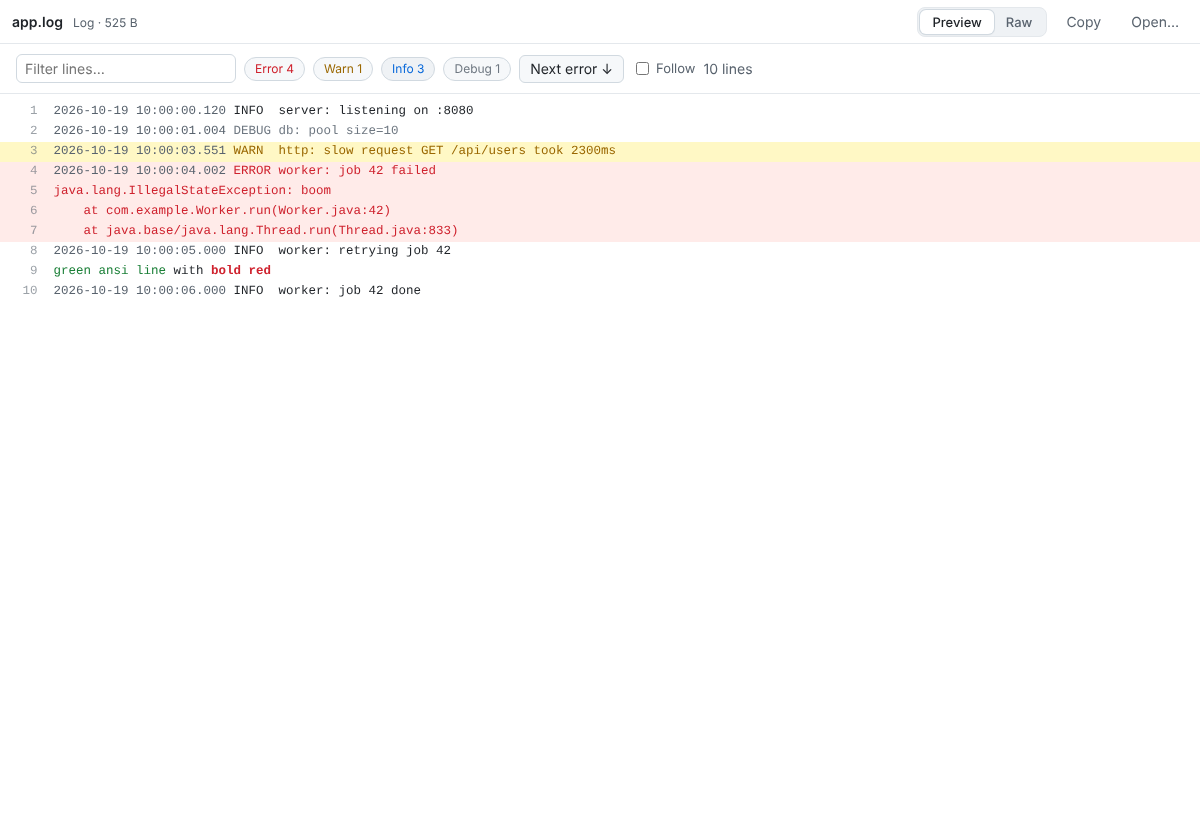
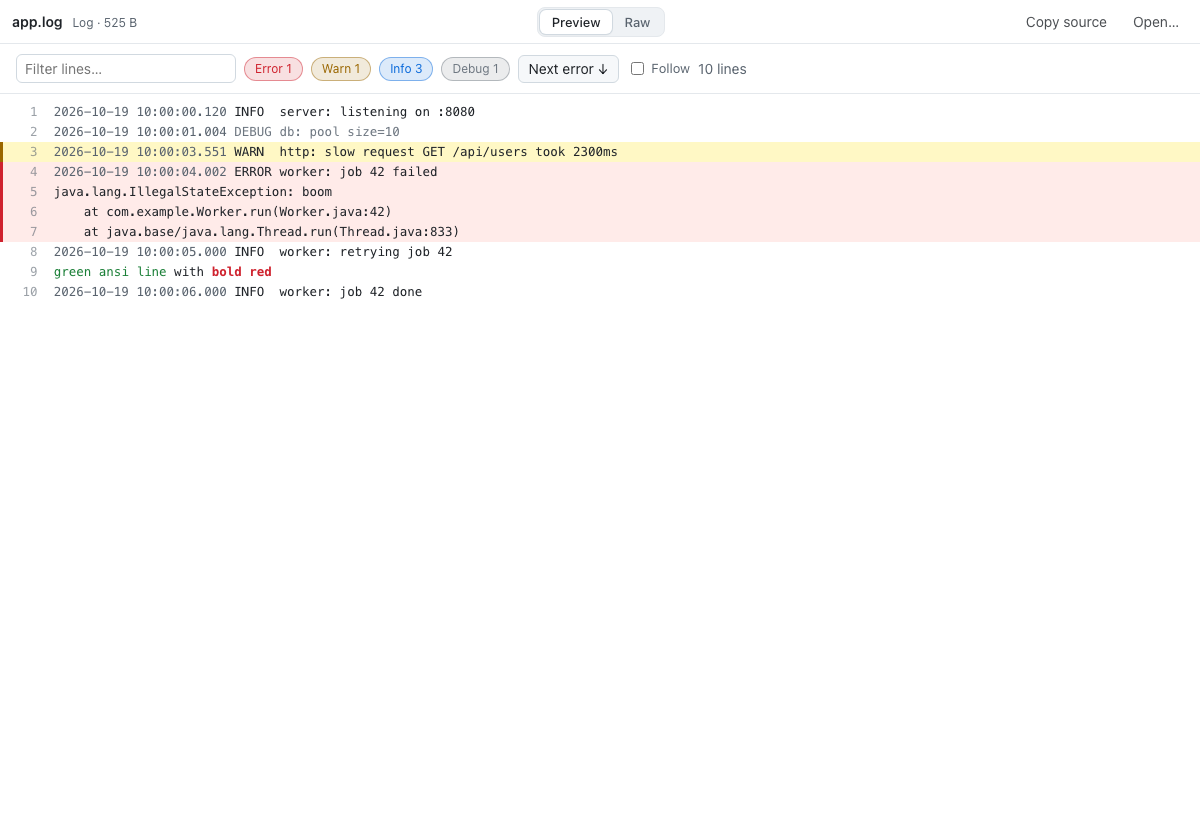
README for a public repo: install from releases, current screenshots, support
- Install: which file to download, and how to open an unsigned app on current
  macOS (Privacy & Security → Open Anyway; System Settings replaced the
  right-click → Open bypass).
- Screenshots retaken from the current UI; unused ones removed; a file-list one
  added.
- Mentions Recent Changes and links, notes Open Folder is macOS-only.
- How this was built, and what support to expect.
- Repository links in package.json and Cargo.toml; release steps include the
  changelog.

Changed region(s): [[0.0, 0.0, 0.6167, 0.3659], [0.7708, 0.0, 0.925, 0.061], [0.0308, 0.061, 0.0925, 0.0915]]

diff --git a/README.md b/README.md
@@ -1,24 +1,38 @@
-# Plica
+<p align="center">
+  <img src="src-tauri/icons/128x128@2x.png" width="96" alt="">
+</p>
+
+<h1 align="center">Plica</h1>
+
+<p align="center">
+  <a href="https://github.com/ryangswe/plica/releases/latest"><img alt="Latest release" src="https://img.shields.io/github/v/release/ryangswe/plica?label=release"></a>
+  <a href="https://github.com/ryangswe/plica/actions/workflows/ci.yml"><img alt="CI" src="https://img.shields.io/github/actions/workflow/status/ryangswe/plica/ci.yml?branch=main&label=CI"></a>
+  <a href="LICENSE"><img alt="License: MIT" src="https://img.shields.io/badge/license-MIT-blue"></a>
+  <img alt="macOS, Windows, Linux" src="https://img.shields.io/badge/platforms-macOS%20%7C%20Windows%20%7C%20Linux-lightgrey">
+</p>
 
 **Double-click a Markdown file and actually read it.**
 
-Plica is a tiny, free, open-source viewer for the text files developers deal with every day. It opens
-Markdown, JSON, CSV, Jupyter notebooks, logs, diffs and more **rendered**, instantly, without an IDE. Press
-<kbd>Cmd</kbd>/<kbd>Ctrl</kbd> + <kbd>/</kbd> to flip to the raw source and back, like GitHub's Preview / Code tabs.
+Plica is a small, free viewer for the text files developers read every day. It opens Markdown, JSON, CSV,
+Jupyter notebooks, logs, diffs and more **rendered**, instantly, without an IDE. Press
+<kbd>Cmd</kbd>/<kbd>Ctrl</kbd> + <kbd>/</kbd> to flip to the raw source and back, like GitHub's Preview and Code
+tabs.
 
 <p align="center">
-  <img src="docs/screenshots/01-markdown.png" width="49%" alt="Markdown preview">
-  <img src="docs/screenshots/02-markdown-raw.png" width="49%" alt="Same file, raw">
+  <img src="docs/screenshots/01-markdown.png" width="49%" alt="A Markdown file rendered, with its table of contents">
+  <img src="docs/screenshots/02-markdown-raw.png" width="49%" alt="The same file as raw source with line numbers">
 </p>
 
-- **Fast and small.** Built with [Tauri](https://tauri.app): it uses the web engine your OS already has, so
-  the app is a few MB instead of a 150 MB Electron bundle.
-- **Opens like any other file.** Set it as the default app for `.md` (and friends) and double-click.
-- **Read-only and safe.** Files are untrusted: scripts never run, HTML is sanitized, HTML pages preview in a sandbox.
-- **Private.** No telemetry, no accounts. Remote images in a file (badges, tracking pixels) load only when you
-  say so: **Load once**, or **Always load** (macOS: View → Load Remote Images).
-- **Live reload.** Edit the file in your editor; the view updates on save (great for logs with *Follow* on).
-- **Works on macOS, Windows and Linux.**
+- **Small and fast.** Built with [Tauri](https://tauri.app), it uses the web engine your OS already has: the
+  macOS app is about 5 MB, not a 150 MB Electron bundle.
+- **Opens like any other file.** Make it the default app for `.md` (and friends) and double-click.
+- **Read-only and careful.** File content is treated as untrusted: scripts never run, HTML is sanitized, and HTML
+  pages preview in a sandbox.
+- **Private.** No telemetry, no accounts, no update checks. Remote images in a file (badges, tracking pixels)
+  load only when you say so.
+- **Live reload.** Edit the file in your editor and the view updates when you save.
+- **Finds what your coding agent just wrote.** File → Recent Changes lists the Markdown and text files changed
+  this week, newest first, including plans in `~/.claude/plans` and notes in git worktrees.
 
 ## What it renders
 
@@ -34,57 +48,34 @@ Markdown, JSON, CSV, Jupyter notebooks, logs, diffs and more **rendered**, insta
 | SVG, HTML | Image / sandboxed page preview |
 | Anything else that's text | Syntax-highlighted source with line numbers |
 
+Text in UTF-16, Windows-1252, Shift_JIS and other legacy encodings is detected; click the encoding in the top bar
+to pick another one if the characters look wrong.
+
 <p align="center">
-  <img src="docs/screenshots/07-log.png" width="49%" alt="Log view">
-  <img src="docs/screenshots/05-notebook.png" width="49%" alt="Notebook view">
+  <img src="docs/screenshots/07-log.png" width="49%" alt="A log file colored by level, with filters">
+  <img src="docs/screenshots/05-notebook.png" width="49%" alt="A Jupyter notebook with outputs">
 </p>
-
-## Keyboard
-
-| Keys | Action |
-|---|---|
-| <kbd>Cmd/Ctrl</kbd> <kbd>/</kbd> | Toggle Preview ↔ Raw |
-| <kbd>Cmd/Ctrl</kbd> <kbd>F</kbd>, <kbd>G</kbd>, <kbd>Shift</kbd> <kbd>G</kbd> | Find in file, next match, previous match |
-| <kbd>Cmd/Ctrl</kbd> <kbd>O</kbd> | Open a file |
-| <kbd>Cmd/Ctrl</kbd> <kbd>R</kbd> | Reload |
-| <kbd>Shift</kbd> <kbd>Cmd/Ctrl</kbd> <kbd>R</kbd> | Recent changes: Markdown and text files changed this week |
-| <kbd>Cmd/Ctrl</kbd> <kbd>+</kbd> / <kbd>-</kbd> / <kbd>0</kbd> | Zoom |
-| <kbd>Alt</kbd> <kbd>←</kbd> or <kbd>Cmd/Ctrl</kbd> <kbd>[</kbd> | Back (after following a link to another file) |
-| <kbd>Ctrl</kbd> <kbd>Cmd</kbd> <kbd>S</kbd> (macOS), <kbd>Ctrl</kbd> <kbd>B</kbd> | Show or hide the file list |
-
-On macOS everything is also in the menu bar, plus:
-
-| Keys | Action |
-|---|---|
-| <kbd>Cmd</kbd> <kbd>E</kbd> | Open in your editor (VS Code, Cursor, Zed…; pick one under File → Open in Other Editor) |
-| <kbd>Shift</kbd> <kbd>Cmd</kbd> <kbd>C</kbd> / <kbd>Option</kbd> <kbd>Cmd</kbd> <kbd>C</kbd> | Copy the file's source / its path |
-| <kbd>Cmd</kbd> <kbd>1</kbd>…<kbd>9</kbd>, <kbd>Ctrl</kbd> <kbd>Tab</kbd> | Switch tabs (Window → Merge All Windows to put windows in tabs) |
-| <kbd>Shift</kbd> <kbd>Cmd</kbd> <kbd>M</kbd> | Merge All Windows |
-
-**Several files or a folder:** select files in Finder and open them, drop them on Plica, or use **File → Open
-Folder…** (Shift+Cmd+O, or drop a folder). You get one window with the files listed on the left in Finder's name
-order; click one (or use the arrow keys) to show it. To give a file a window of its own, Cmd-click it, drag it
-out of the window, or right-click it → Open in New Window. Only the folder's own text files are listed:
-subfolders, hidden files and files that aren't text are left out. Prefer tabs? On macOS, Window → **Open Groups
-of Files as Tabs** opens one tab per file instead.
-
-**Recent changes:** **File → Recent Changes** (Shift+Cmd+R, or Ctrl+Shift+R; also on the start screen) lists the
-Markdown and text files changed in the last 7 days, newest first, with their folder and when they changed. Handy
-for finding what a coding agent just wrote: a plan in `~/.claude/plans`, notes in a worktree. It looks in
-`~/.claude/plans` and the usual code folders (`~/Workspace`, `~/Projects`, `~/Developer`, `~/code`…), skipping
-dependencies and build output. Files written all at once (a checkout or a copy) are left out. To pick the folders,
-add `"recentFolders": ["~/work", "~/notes"]` to Plica's `settings.json`. Run it again to refresh the list.
-
-If a file's characters look wrong, click its encoding in the top bar (or File → Reopen with Encoding) to pick another.
 
 ## Install
 
-Download the installer for your OS from the [Releases](../../releases) page.
+Download the file for your system from the [latest release](https://github.com/ryangswe/plica/releases/latest):
 
-> **The app isn't code-signed yet**, so the first launch shows a warning:
-> - **macOS:** right-click Plica.app → **Open** → **Open**. If macOS says the app is "damaged", run
->   `xattr -cr /Applications/Plica.app` once.
-> - **Windows:** SmartScreen → **More info** → **Run anyway**.
+| System | File |
+|---|---|
+| macOS, Apple Silicon | `Plica_<version>_aarch64.dmg` |
+| macOS, Intel | `Plica_<version>_x64.dmg` |
+| Windows | `Plica_<version>_x64-setup.exe` (or the `.msi`) |
+| Linux | `.AppImage`, `.deb` or `.rpm` |
+
+The app isn't code-signed (signing costs a yearly fee, and Plica is a free side project), so your system warns
+you the first time you open it:
+
+- **macOS:** open Plica once and close the warning. Then go to **System Settings → Privacy & Security**, scroll
+  down to the message about Plica and click **Open Anyway**. If macOS instead says the app is "damaged", run
+  `xattr -dr com.apple.quarantine /Applications/Plica.app` once in Terminal.
+- **Windows:** in the SmartScreen dialog, click **More info → Run anyway**.
+
+Or build it yourself: see [Development](#development).
 
 ### Make it the default for Markdown
 
@@ -93,26 +84,93 @@ Download the installer for your OS from the [Releases](../../releases) page.
 - **Windows:** right-click a `.md` file → **Open with** → **Choose another app** → Plica → tick **Always**.
 - **Linux:** `xdg-mime default Plica.desktop text/markdown` (or use your file manager's "Open With").
 
-Plica registers itself for Markdown, JSON, CSV/TSV, notebooks, logs, diffs and Mermaid files, so it shows
-up in "Open With" for all of them.
+Plica registers itself for Markdown, JSON, CSV/TSV, notebooks, logs, diffs and Mermaid files, so it shows up in
+"Open With" for all of them.
+
+## Using it
+
+**Several files or a folder.** Select files in Finder or Explorer and open them, or drop files or a folder on
+Plica (on macOS also **File → Open Folder…**). You get one window with the files listed on the left in Finder's
+name order; click one, or use the arrow keys, to show it. To give a file a window of its own, Cmd/Ctrl-click
+it, drag it out of the window, or right-click it → Open in New Window. Only the folder's own text files are
+listed: subfolders, hidden files and files that aren't text are left out. Prefer tabs? On macOS,
+Window → **Open Groups of Files as Tabs** opens one tab per file instead.
+
+<p align="center">
+  <img src="docs/screenshots/08-file-list.png" width="70%" alt="Three files opened together, listed on the left">
+</p>
+
+**Recent changes.** **File → Recent Changes** (<kbd>Shift</kbd> <kbd>Cmd/Ctrl</kbd> <kbd>R</kbd>, or the
+button on the start screen) lists the Markdown and text files
+changed in the last 7 days, newest first, with their folder and when they changed. It looks in
+`~/.claude/plans` and the usual code folders (`~/Workspace`, `~/Projects`, `~/Developer`, `~/code`…), skipping
+dependencies and build output. Files written dozens at a time (a git checkout or a copy) are left out. To choose
+the folders, add `"recentFolders": ["~/work", "~/notes"]` to Plica's `settings.json`. Run it again to refresh
+the list.
+
+**Links.** Web links open in your browser. Links to other files open them in Plica, including the
+`src/main.ts:42` form that coding agents write (the line number is ignored for now).
+
+**Remote images** stay blocked until you click **Load once** or **Always load** (macOS: View → Load Remote
+Images).
+
+### Keyboard
+
+| Keys | Action |
+|---|---|
+| <kbd>Cmd/Ctrl</kbd> <kbd>/</kbd> | Toggle Preview ↔ Raw |
+| <kbd>Cmd/Ctrl</kbd> <kbd>F</kbd>, <kbd>G</kbd>, <kbd>Shift</kbd> <kbd>G</kbd> | Find in file, next match, previous match |
+| <kbd>Cmd/Ctrl</kbd> <kbd>O</kbd> | Open a file |
+| <kbd>Cmd/Ctrl</kbd> <kbd>R</kbd> | Reload |
+| <kbd>Shift</kbd> <kbd>Cmd/Ctrl</kbd> <kbd>R</kbd> | Recent changes |
+| <kbd>Cmd/Ctrl</kbd> <kbd>+</kbd> / <kbd>-</kbd> / <kbd>0</kbd> | Zoom |
+| <kbd>Alt</kbd> <kbd>←</kbd> or <kbd>Cmd/Ctrl</kbd> <kbd>[</kbd> | Back (after following a link to another file) |
+| <kbd>Ctrl</kbd> <kbd>Cmd</kbd> <kbd>S</kbd> (macOS), <kbd>Ctrl</kbd> <kbd>B</kbd> | Show or hide the file list |
+
+On macOS everything is also in the menu bar, plus:
+
+| Keys | Action |
+|---|---|
+| <kbd>Shift</kbd> <kbd>Cmd</kbd> <kbd>O</kbd> | Open a folder |
+| <kbd>Cmd</kbd> <kbd>E</kbd> | Open in your editor (VS Code, Cursor, Zed…; pick one under File → Open in Other Editor) |
+| <kbd>Shift</kbd> <kbd>Cmd</kbd> <kbd>C</kbd> / <kbd>Option</kbd> <kbd>Cmd</kbd> <kbd>C</kbd> | Copy the file's source / its path |
+| <kbd>Cmd</kbd> <kbd>1</kbd>…<kbd>9</kbd>, <kbd>Ctrl</kbd> <kbd>Tab</kbd> | Switch tabs (Window → Merge All Windows puts windows in tabs) |
+| <kbd>Shift</kbd> <kbd>Cmd</kbd> <kbd>M</kbd> | Merge All Windows |
 
 ## Development
 
-Requirements: Node 20+, Rust (stable), and on Linux the WebKitGTK libraries
-(`sudo apt install libwebkit2gtk-4.1-dev libappindicator3-dev librsvg2-dev patchelf`).
+You need Node 20 or later and Rust (stable). On Linux, also the WebKitGTK libraries:
+`sudo apt install libwebkit2gtk-4.1-dev libappindicator3-dev librsvg2-dev patchelf`.
 
 ```bash
+git clone https://github.com/ryangswe/plica.git
+cd plica
 npm install
 npm run tauri dev          # run the desktop app with hot reload
 npm run dev                # or just the UI in a browser (drag files onto the page)
-npm test                   # unit tests (vitest)
-npm run test:e2e           # browser tests (playwright) – also writes screenshots to test-results/screens
 npm run tauri build        # build installers for your OS into src-tauri/target/release/bundle
 ```
 
-Adding a file type is one file in `src/renderers/` plus a line in `src/renderers/index.ts`. See
-[ARCHITECTURE.md](ARCHITECTURE.md) for how it's built.
+Tests: `npm test` (unit), `npm run test:e2e` (Playwright, Chromium and WebKit), and `cargo test --manifest-path
+src-tauri/Cargo.toml`. [ARCHITECTURE.md](ARCHITECTURE.md) explains how the code is laid out, and adding a file
+type is one file in `src/renderers/` plus a line in `src/renderers/index.ts`.
+
+## How this was built
+
+I built Plica for myself, with heavy use of AI coding tools (Claude Code). It is checked by unit tests, browser
+tests in Chromium and WebKit (which also enforce the app's Content Security Policy), Rust tests, a lint for bug
+patterns, a macOS smoke test of the installed app, and two outside reviews by AI models, not by people. I use it
+every day on macOS. The Windows and Linux builds are built and tested in CI but get little use by hand, so
+reports from those systems are especially welcome.
+
+## Support
+
+I maintain Plica in my spare time. Bug reports are welcome as
+[issues](https://github.com/ryangswe/plica/issues/new/choose); they are read, but there is no promised response
+time and no roadmap. Plica does what I need, so new features are unlikely unless they are small and fit what it
+already does. To help with code, see [CONTRIBUTING.md](CONTRIBUTING.md). To report a security problem, see
+[SECURITY.md](SECURITY.md) instead of opening an issue.
 
 ## License
 
-MIT
+[MIT](LICENSE). Changes by version are in [CHANGELOG.md](CHANGELOG.md).

diff --git a/ARCHITECTURE.md b/ARCHITECTURE.md
@@ -73,6 +73,10 @@ never `innerHTML` raw file content; no `eval`; keep `script-src 'self'`; links a
 
 ## Releasing
 
-1. Bump `version` in `package.json`, `src-tauri/Cargo.toml`, and `src-tauri/tauri.conf.json`.
-2. Commit, then `git tag v0.1.0 && git push --tags`.
-3. The Release workflow builds everything and creates a **draft** release; review it and publish.
+1. Bump `version` in `package.json`, `src-tauri/Cargo.toml` and `src-tauri/tauri.conf.json` , then run `npm install`
+   and `cargo check --manifest-path src-tauri/Cargo.toml` so both lock files follow.
+2. In `CHANGELOG.md`, rename Unreleased to the new version with today's date, add an empty Unreleased above it,
+   and update the compare links at the bottom.
+3. Commit, then `git tag vX.Y.Z && git push origin vX.Y.Z`.
+4. The Release workflow builds installers for macOS (Apple Silicon and Intel), Windows and Linux and creates a
+   **draft** release; check it, paste the version's CHANGELOG section into its notes, and publish.

diff --git a/CLAUDE.md b/CLAUDE.md
@@ -4,7 +4,7 @@ Cross-platform read-only viewer for Markdown and other dev files (Tauri 2 + Type
 How the code is organized, tested and released: ARCHITECTURE.md.
 Maintainers: status, roadmap and product decisions live in the private `plica-docs` repo, cloned next to
 this one (`~/Workspace/plica-docs`). If you have it, **read its HANDOFF.md first**; record decisions in its
-PRODUCT.md. Never copy those notes into this repo, which will be public.
+PRODUCT.md. Never copy those notes into this repo, which is public.
 
 ## Commands
 
